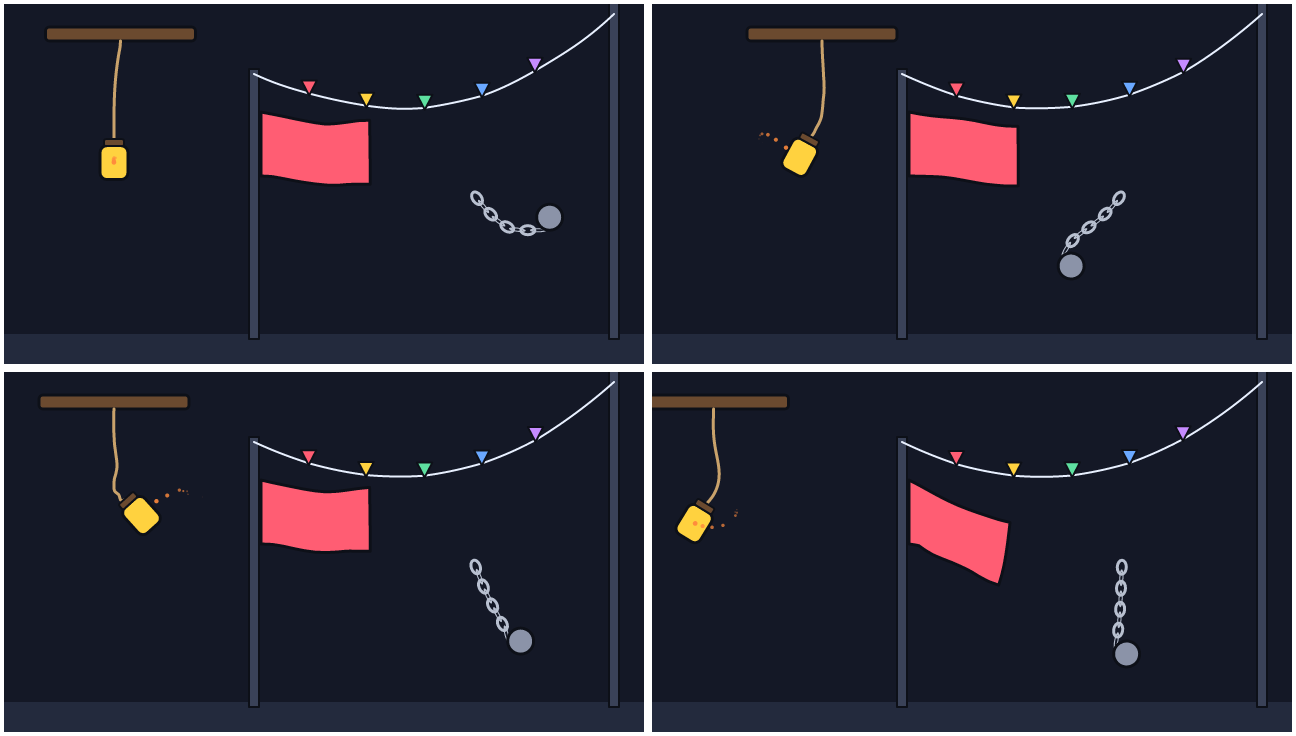
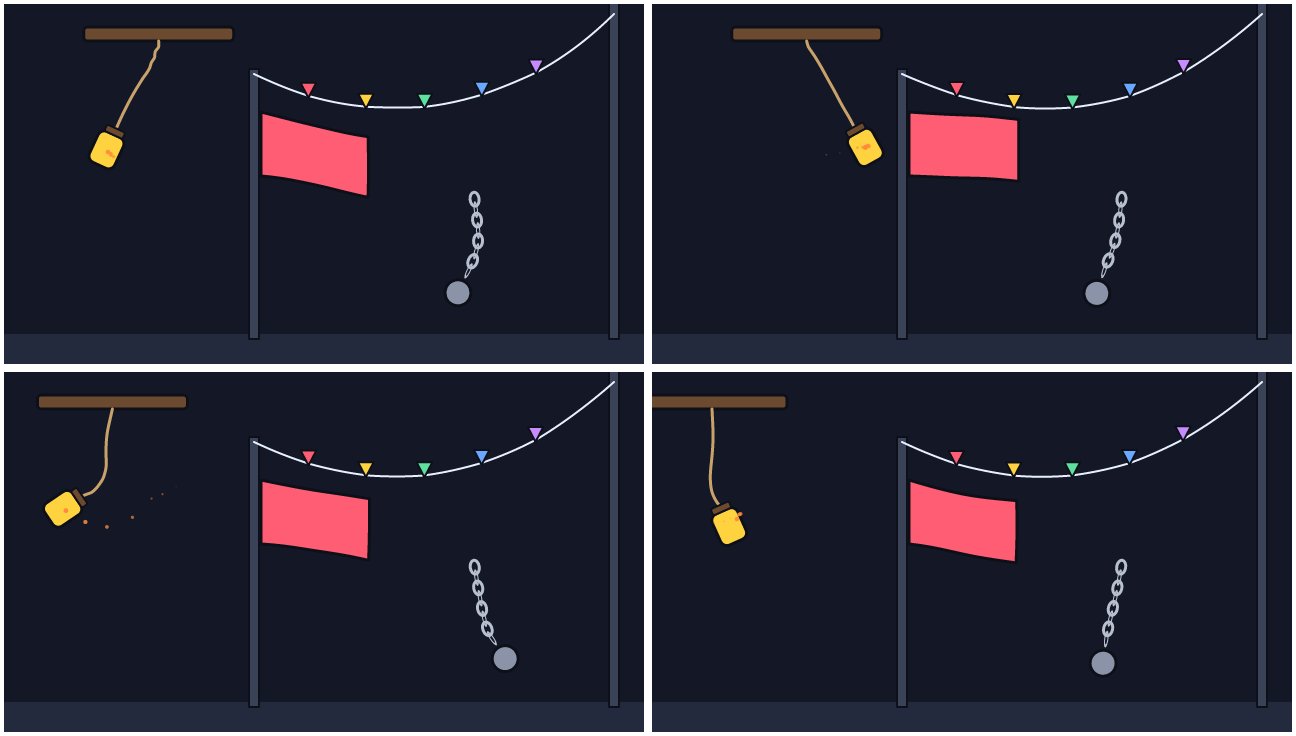
Keep the curve picker on screen, and give cloth clear rules
Timeline: the curve picker sat at the end of the bar and slid under the right
panel in windows narrower than about 1400 px, so it could not be reached. It
is now laid out first at the right end of the bar; the rest is cut at it, and
in a narrow window the timecode and the label get shorter. With no key picked
the list says «нет ключа». A right click on a key opens its curve list.

Cloth: cells may be squeezed (a fold in depth) down to a third of their area
but never turned inside out, which showed as a notch in the outline; kinks in
the rows and columns are smoothed into waves; and wind makes cloth flutter:
waves across the wind run from the fastened part to the free edge and grow on
the way, for its own wind, the scene's wind and fans alike.

Claude-Session: https://claude.ai/code/session_015CiM6UP6Ux3dKLyr33EPnd

diff --git a/docs/animation.html b/docs/animation.html
@@ -31,9 +31,9 @@
   <li><b>«Калька»</b> — показывает соседние позы, см. ниже.</li>
   <li><b>Время и кадр</b> — текущее положение. <kbd>,</kbd> и <kbd>.</kbd> шагают на кадр назад и вперёд.</li>
   <li><b>«Длит.»</b> — длительность анимации в секундах.</li>
-  <li><b>«Кривая»</b> — кривая выбранного ключа и её миниатюра.</li>
+  <li><b>«Кривая»</b> — кривая выбранного ключа и её миниатюра. Всегда стоит у правого края панели, в узком окне время показывается короче, чтобы она поместилась. Пока ключ не выбран, в списке написано «нет ключа».</li>
 </ul>
-<p>Ниже идут дорожки: строка объекта со сводкой его ключей и под ней строки анимированных свойств. Клик по линейке или дорожке переводит время. Ключ можно выбрать кликом, перетащить на другое время или удалить клавишей <kbd>Delete</kbd>.</p>
+<p>Ниже идут дорожки: строка объекта со сводкой его ключей и под ней строки анимированных свойств. Клик по линейке или дорожке переводит время. Ключ можно выбрать кликом, перетащить на другое время или удалить клавишей <kbd>Delete</kbd>. Правый клик по ключу сразу открывает список кривых.</p>
 
 <h2 id="curves">Кривые</h2>
 <p>Кривая задаёт, как значение идёт от одного ключа к следующему: равномерно, с разгоном, с торможением, с перелётом или прыжками. Она хранится на ключе, с которого начинается отрезок.</p>

diff --git a/docs/physics.html b/docs/physics.html
@@ -102,6 +102,8 @@
 <ul>
   <li><b>Провис.</b> Верёвка с двумя закреплёнными концами держит свою нарисованную длину. Нарисуйте её с провисом (кривой), и она будет висеть свободно. Прямая верёвка между двумя точками натянута.</li>
   <li><b>Фонарь.</b> Шнур внутри группы с балкой, фонарь — группа с <code>pivot</code> на крышке и <code>hang cord</code>. Двигайте балку ключами, фонарь раскачается сам.</li>
+  <li><b>Правила ткани.</b> Ткань не растягивается (сколько именно — решает жёсткость), но сжимается: так в плоскости выглядит складка в глубину. Сжаться клетка сетки может до трети своей площади, но не вывернуться наизнанку, поэтому на краю не бывает зазубрин. Резкие изломы сглаживаются, складки получаются плавными волнами.</li>
+  <li><b>Ткань на ветру</b> не просто сдувается: по ней бегут волны поперёк ветра от закреплённого края к свободному и растут к концу. Чем сильнее ветер (свой, сцены, вентилятор) и чем больше парусность, тем сильнее полощется.</li>
   <li><b>В Design</b> верёвки и ткань нарисованы как есть, подвешенные объекты и звенья стоят на нарисованной верёвке. Физика работает в Animate, при проигрывании и экспорте.</li>
 </ul>
 

diff --git a/crates/motif-core/src/rope.rs b/crates/motif-core/src/rope.rs
@@ -102,6 +102,15 @@ const CLOTH_MAX: usize = 28;
 const ITERATIONS: usize = 6;
 /// How much of a sliding point's speed a wall takes per step.
 const FRICTION: f64 = 0.3;
+/// The smallest a cloth's cell may be squeezed, as a share of its drawn area: below it the
+/// cell would turn inside out, which shows as a notch in the outline.
+const CLOTH_MIN_AREA: f64 = 0.3;
+/// How strongly each pass straightens kinks in the cloth's rows and columns, 0..1.
+const CLOTH_BEND: f64 = 0.03;
+/// Flutter of cloth in the wind: sideways push as a share of the wind, and the length of the
+/// waves that run from the fastened edge to the free one, in artboard units.
+const FLUTTER: f64 = 1.0;
+const FLUTTER_WAVE: f64 = 60.0;
 
 /// What holds a point in place.
 #[derive(Clone, Debug, PartialEq)]
@@ -147,6 +156,11 @@ pub(crate) struct Strand {
     time: f64,
     /// Where each point is in the wind's waves, from its place on the drawn shape.
     phase: Vec<f64>,
+    /// Cloth: how far each point is from the fastened part as drawn, as a share of the
+    /// farthest one (1 everywhere when nothing is fastened).
+    reach: Vec<f64>,
+    /// Cloth: each cell as two triangles of point indices, with the drawn signed area of each.
+    cells: Vec<([usize; 3], f64)>,
 }
 
 /// The first piece of `path`'s outline as a polyline with points at most `step` apart, and
@@ -396,8 +410,28 @@ impl Strand {
             }
         }
         let margin = if n.stroke.is_some() && !rope.cloth { n.stroke_width / 2.0 } else { 0.0 };
-        let phase = rest.iter().map(|q| (q.x + q.y * 0.5) * 0.06).collect();
-        Some(Strand { node, rope, old: p.clone(), p, inv, anchors, sticks, form, margin, time: 0.0, phase })
+        let mut phase: Vec<f64> = rest.iter().map(|q| (q.x + q.y * 0.5) * 0.06).collect();
+        let (mut reach, mut cells) = (vec![1.0; rest.len()], Vec::new());
+        if let Form::Grid { cols, rows, .. } = form {
+            // Waves start at the fastened part and run away from it.
+            let held: Vec<Point> = (0..rest.len()).filter(|&k| inv[k] <= 0.0).map(|k| rest[k]).collect();
+            if !held.is_empty() {
+                let dist: Vec<f64> = rest.iter().map(|q| held.iter().map(|h| (*q - *h).hypot()).fold(f64::MAX, f64::min)).collect();
+                let far = dist.iter().copied().fold(1e-9, f64::max);
+                reach = dist.iter().map(|d| d / far).collect();
+                phase = dist.iter().map(|d| d / FLUTTER_WAVE * std::f64::consts::TAU).collect();
+            }
+            let area = |t: [usize; 3]| (rest[t[1]] - rest[t[0]]).cross(rest[t[2]] - rest[t[0]]) / 2.0;
+            for r in 0..rows - 1 {
+                for c in 0..cols - 1 {
+                    let (a, b, d, e) = (r * cols + c, r * cols + c + 1, (r + 1) * cols + c, (r + 1) * cols + c + 1);
+                    for t in [[a, b, e], [a, e, d], [a, b, d], [b, e, d]] {
+                        cells.push((t, area(t)));
+                    }
+                }
+            }
+        }
+        Some(Strand { node, rope, old: p.clone(), p, inv, anchors, sticks, form, margin, time: 0.0, phase, reach, cells })
     }
 
     fn step(&mut self, pose: &Document, walls: &[Wall], dt: f64, steps: usize) {
@@ -428,7 +462,16 @@ impl Strand {
                 }
                 None => {
                     let ph = self.phase[i];
-                    let acc = Vec2::new(gust * (1.0 + 0.5 * (t * 5.0 - ph).sin()), gust * (t * 4.0 - ph * 1.3).sin()) + pull + pose.push(me, self.p[i]);
+                    let acc = if r.cloth {
+                        // The wind blows the cloth out and makes it flutter: waves across the wind
+                        // run from the fastened edge to the free one and grow on the way.
+                        let wind = Vec2::new(gust, 0.0) + pose.push(me, self.p[i]);
+                        let across = Vec2::new(-wind.y, wind.x);
+                        let reach = self.reach[i];
+                        wind * (1.0 + 0.3 * (t * 7.0 - ph).sin()) + across * (FLUTTER * reach * (t * 9.0 - ph).sin()) + pull
+                    } else {
+                        Vec2::new(gust * (1.0 + 0.5 * (t * 5.0 - ph).sin()), gust * (t * 4.0 - ph * 1.3).sin()) + pull + pose.push(me, self.p[i])
+                    };
                     let v = (self.p[i] - self.old[i]) * keep;
                     self.old[i] = self.p[i];
                     self.p[i] += v + acc * dt * dt;
@@ -456,6 +499,9 @@ impl Strand {
                 self.p[b] -= fix * wb;
             }
         }
+        if let Form::Grid { cols, rows, .. } = self.form {
+            self.keep_cloth_smooth(cols, rows);
+        }
         for wall in walls {
             let margin = wall.margin + self.margin;
             for i in 0..self.p.len() {
@@ -473,6 +519,58 @@ impl Strand {
                 self.p[i] = on + out * margin;
                 let v = self.p[i] - self.old[i];
                 self.old[i] = self.p[i] - along * v.dot(along) * (1.0 - FRICTION);
+            }
+        }
+    }
+
+    /// Cloth: straightens kinks in the rows and columns, then keeps every cell from being
+    /// squeezed flat or turned inside out. Folds stay smooth waves instead of notches.
+    fn keep_cloth_smooth(&mut self, cols: usize, rows: usize) {
+        let n = self.p.len();
+        let mut fix = vec![Vec2::ZERO; n];
+        let mut bend = |a: usize, b: usize, c: usize, p: &[Point], inv: &[f64]| {
+            let w = inv[a] * 0.25 + inv[b] + inv[c] * 0.25;
+            if w <= 0.0 {
+                return;
+            }
+            let d = (p[a].midpoint(p[c]) - p[b]) * (CLOTH_BEND / w);
+            fix[b] += d * inv[b];
+            fix[a] -= d * (inv[a] * 0.5);
+            fix[c] -= d * (inv[c] * 0.5);
+        };
+        for r in 0..rows {
+            for c in 1..cols - 1 {
+                let k = r * cols + c;
+                bend(k - 1, k, k + 1, &self.p, &self.inv);
+            }
+        }
+        for r in 1..rows - 1 {
+            for c in 0..cols {
+                let k = r * cols + c;
+                bend(k - cols, k, k + cols, &self.p, &self.inv);
+            }
+        }
+        for (q, f) in self.p.iter_mut().zip(&fix) {
+            *q += *f;
+        }
+        for _ in 0..2 {
+            for &(t, rest) in &self.cells {
+                let [a, b, c] = t.map(|k| self.p[k]);
+                let sign = rest.signum();
+                let area = (b - a).cross(c - a) / 2.0 * sign;
+                let want = rest.abs() * CLOTH_MIN_AREA;
+                if area >= want {
+                    continue;
+                }
+                let g = [(b - c) / 2.0, (c - a) / 2.0, (a - b) / 2.0].map(|v| Vec2::new(v.y, -v.x) * sign);
+                let norm: f64 = (0..3).map(|i| self.inv[t[i]] * g[i].hypot2()).sum();
+                if norm < 1e-12 {
+                    continue;
+                }
+                let lambda = (want - area) / norm;
+                for i in 0..3 {
+                    self.p[t[i]] += g[i] * (self.inv[t[i]] * lambda);
+                }
             }
         }
     }
@@ -728,5 +826,32 @@ mod tests {
         // Down the hanging rope, one after another.
         let ys: Vec<f64> = parts.iter().map(|(a, _)| (*a * Point::ZERO).y).collect();
         assert!(ys.windows(2).all(|w| w[1] > w[0]), "{ys:?}");
+    }
+
+    #[test]
+    fn a_cloth_in_a_storm_flutters_without_turning_inside_out() {
+        let mut d = Document::new(Artboard::default());
+        let mut c = Node::new("flag", ShapeKind::Rect);
+        (c.x, c.y, c.width, c.height) = (200.0, 100.0, 100.0, 60.0);
+        c.rope = Some(Rope { pins: vec![Pin::Left], wind: 2500.0, ..Rope::cloth() });
+        c.weight = Some(0.35);
+        d.nodes.push(c);
+        let mut s = super::strands(&d);
+        let (mut lowest, mut highest) = (f64::MAX, f64::MIN);
+        for frame in 0..240 {
+            d.world.time = frame as f64 / 60.0;
+            super::step_strands(&mut s, &d, 1.0 / 60.0, 10);
+            for &(t, rest) in &s[0].cells {
+                let [a, b, c] = t.map(|k| s[0].p[k]);
+                let area = (b - a).cross(c - a) / 2.0 * rest.signum();
+                assert!(area > rest.abs() * 0.2, "a cell turned inside out at frame {frame}: {area} of {rest}");
+            }
+            // The free corner rises and falls as waves run along the flag.
+            if frame > 60 {
+                let tip = s[0].p[s[0].p.len() - 1].y;
+                (lowest, highest) = (lowest.min(tip), highest.max(tip));
+            }
+        }
+        assert!(highest - lowest > 8.0, "flutters: {lowest}..{highest}");
     }
 }

diff --git a/crates/motif-editor/src/timeline.rs b/crates/motif-editor/src/timeline.rs
@@ -171,6 +171,15 @@ impl App {
             }
         }
         let Some(anim) = anim else { return };
+        // The curve picker goes first, at the right end; the rest fills what is left and is cut
+        // off at it when the window is narrow.
+        let rest = ui.available_rect_before_wrap();
+        let mut right = ui.new_child(UiBuilder::new().max_rect(rest).layout(Layout::right_to_left(Align::Center)));
+        right.spacing_mut().item_spacing.x = 8.0;
+        let narrow = rest.width() < 820.0;
+        self.curve_picker(&mut right, anim, narrow);
+        let left_end = right.min_rect().left() - 8.0;
+        ui.set_clip_rect(ui.clip_rect().intersect(Rect::from_x_y_ranges(rest.left()..=left_end, rest.y_range())));
         vsep(ui);
 
         if theme::icon_button(ui, Icon::First, "В начало").clicked() {
@@ -203,11 +212,17 @@ impl App {
         let mut job = LayoutJob::default();
         let font = theme::mono(12.0);
         let part = |job: &mut LayoutJob, s: &str, c: Color32| job.append(s, 0.0, TextFormat { font_id: font.clone(), color: c, ..Default::default() });
+        // In a narrow window only the time, so that the duration still fits.
+        let wide = left_end - ui.cursor().left() > 310.0;
         part(&mut job, &format!("{t:.2}"), FG);
-        part(&mut job, &format!(" / {:.2} с · кадр ", anim.duration), MUTED);
-        part(&mut job, &format!("{}", (t * FPS).round() as i64), FG);
+        if wide {
+            part(&mut job, &format!(" / {:.2} с · кадр ", anim.duration), MUTED);
+            part(&mut job, &format!("{}", (t * FPS).round() as i64), FG);
+        } else {
+            part(&mut job, " с", MUTED);
+        }
         let galley = ui.painter().layout_job(job);
-        let (r, _) = ui.allocate_exact_size(vec2(galley.size().x.max(150.0), 20.0), Sense::hover());
+        let (r, _) = ui.allocate_exact_size(vec2(galley.size().x.max(if wide { 150.0 } else { 0.0 }), 20.0), Sense::hover());
         ui.painter().galley(pos2(r.left(), r.center().y - galley.size().y / 2.0), galley, FG);
         vsep(ui);
 
@@ -221,26 +236,16 @@ impl App {
             let out = set_anim_duration(&self.src, &self.scene, &anim.name, (d * 100.0).round() / 100.0);
             self.apply("anim-duration", out);
         }
+    }
 
-        // Curve of the selected key.
-        ui.label(egui::RichText::new("Кривая").size(12.0).color(MUTED));
+    /// The curve of the selected key: a list of curves and a preview that opens the curve
+    /// editor. Laid out right to left at the end of the bar, so it never slides off a narrow window.
+    fn curve_picker(&mut self, ui: &mut Ui, anim: &Animation, narrow: bool) {
         let sel = self.sel_key.clone().filter(|_| self.anim.as_deref() == Some(anim.name.as_str()));
         let cur = sel.as_ref().and_then(|k| key_of(anim, k)).map(|k| k.ease);
         ui.add_enabled_ui(cur.is_some(), |ui| {
             let mut pick = None;
-            egui::ComboBox::from_id_salt("ease")
-                .width(108.0)
-                .selected_text(ease_label(cur.unwrap_or(Ease::EaseInOut)))
-                .show_ui(ui, |ui| {
-                    for e in Ease::BASIC {
-                        if ui.selectable_label(cur == Some(e), ease_label(e)).clicked() {
-                            pick = Some(e);
-                        }
-                    }
-                })
-                .response
-                .on_disabled_hover_text("Выберите ключ на таймлайне");
-            let resp = ease_preview(ui, cur).on_hover_text("Редактор кривой: тяните ручки");
+            let resp = ease_preview(ui, cur).on_hover_text("Редактор кривой: тяните ручки").on_disabled_hover_text("Выберите ключ на таймлайне");
             egui::Popup::from_toggle_button_response(&resp).close_behavior(egui::PopupCloseBehavior::CloseOnClickOutside).show(|ui| {
                 ui.horizontal_top(|ui| {
                     ui.vertical(|ui| {
@@ -256,15 +261,37 @@ impl App {
                     });
                 });
             });
+            egui::ComboBox::from_id_salt("ease")
+                .width(108.0)
+                .selected_text(match cur {
+                    Some(e) => ease_label(e),
+                    None => "нет ключа".into(),
+                })
+                .show_ui(ui, |ui| {
+                    for e in Ease::BASIC {
+                        if ui.selectable_label(cur == Some(e), ease_label(e)).clicked() {
+                            pick = Some(e);
+                        }
+                    }
+                })
+                .response
+                .on_disabled_hover_text("Выберите ключ на таймлайне: щелчок по ромбику. Правый щелчок по ромбику тоже меняет кривую");
+            if !narrow {
+                ui.label(egui::RichText::new("Кривая").size(12.0).color(MUTED));
+            }
             if let (Some(e), Some(k)) = (pick, &sel)
                 && Some(e) != cur
             {
-                let out = set_key_ease(&self.src, &self.scene, &anim.name, &k.node, k.prop, k.time, &e.script());
-                if self.apply("ease", out) {
-                    self.status = format!("Кривая ключа {}.{} на {} с: {}", k.node, k.prop.path_name(), fmt_num(k.time), e.script());
-                }
+                self.set_ease(anim, k, e);
             }
         });
+    }
+
+    fn set_ease(&mut self, anim: &Animation, k: &KeyRef, e: Ease) {
+        let out = set_key_ease(&self.src, &self.scene, &anim.name, &k.node, k.prop, k.time, &e.script());
+        if self.apply("ease", out) {
+            self.status = format!("Кривая ключа {}.{} на {} с: {}", k.node, k.prop.path_name(), fmt_num(k.time), e.script());
+        }
     }
 
     fn timeline_body(&mut self, ui: &mut Ui, body: Rect, anim: &Animation) {
@@ -461,7 +488,28 @@ impl App {
                         ACCENT
                     };
                     theme::diamond(&p, c, 6.0, fill, Stroke::new(1.5, if selected { FG } else { ACCENT }));
-                    let kresp = kresp.on_hover_text(format!("{} · {:.2} с · {}", prop_label(*prop), k.time, ease_label(k.ease)));
+                    let kresp = kresp.on_hover_text(format!("{} · {:.2} с · {} · правый щелчок — кривая", prop_label(*prop), k.time, ease_label(k.ease)));
+                    // Right click: pick the curve straight from the key.
+                    let mut pick = None;
+                    kresp.context_menu(|ui| {
+                        ui.label(egui::RichText::new("Кривая ключа").size(12.0).color(MUTED));
+                        for e in Ease::BASIC {
+                            if ui.selectable_label(k.ease == e, ease_label(e)).clicked() {
+                                pick = Some(e);
+                                ui.close();
+                            }
+                        }
+                    });
+                    if kresp.secondary_clicked() {
+                        self.ensure_anim(&anim.name);
+                        self.sel_key = Some(me.clone());
+                        self.selected = Some(id.clone());
+                    }
+                    if let Some(e) = pick
+                        && e != k.ease
+                    {
+                        self.set_ease(anim, &me, e);
+                    }
                     if kresp.clicked() || kresp.drag_started() {
                         self.ensure_anim(&anim.name);
                         self.sel_key = Some(me.clone());
@@ -517,7 +565,7 @@ impl App {
         };
         let mut pick: Option<(String, Option<usize>)> = None;
         let resp = egui::ComboBox::from_id_salt("anim-pick")
-            .width(170.0)
+            .width(140.0)
             .height(420.0)
             .selected_text(egui::RichText::new(text).color(if self.anim.is_some() { FG } else { MUTED }))
             .show_ui(ui, |ui| {

diff --git a/README.md b/README.md
@@ -60,7 +60,7 @@ cargo run --release -p motif-editor -- examples/bounce.msc
   снимает ключ, K ставит ключи позиции, поворота и масштаба сразу.
 * **Таймлайн.** Выпадающий список анимаций (сверху — состояния машины) и «+» для новой, пуск, «Повтор», длительность. Ниже дорожки: у каждого объекта сводка
   ключей и строки анимированных свойств. Клик по линейке или дорожке переводит время, ключ можно выбрать и сменить ему
-  «Кривую», перетащить на другое время или удалить клавишей Delete. «,» и «.» — кадр назад и вперёд. Клик по миниатюре
+  «Кривую» (или правым кликом по ключу), перетащить на другое время или удалить клавишей Delete. «,» и «.» — кадр назад и вперёд. Клик по миниатюре
   кривой открывает редактор кривой: две ручки Безье тянутся мышью, выше рамки — перелёт (`cubic 0.3 0 0.6 1.2`).
   «Калька» (onion skin) показывает на паузе соседние позы: красные — раньше, зелёные — позже, через 6 кадров.
   В редакторе кривой справа — библиотека: базовые кривые, все 30 функций с easings.net (sine, quad, cubic, quart, quint, expo,
@@ -111,7 +111,8 @@ cargo run --release -p motif-editor -- examples/bounce.msc
   частицы, поэтому кадры повторяются и запекаются в экспорт. Пример — [`examples/particles.msc`](examples/particles.msc).
 * **Верёвки, цепи и ткань.** `rope 1 0.02 pin start end wind 200` делает контур верёвкой: она провисает, качается,
   ложится на препятствия, `tie` привязывает конец к объекту. `hang cord 0.5` вешает объект на верёвку (фонарь, флажки),
-  `links chain` рисует фигуру звеньями цепи вдоль неё. `cloth pin left` делает из фигуры ткань: флаг, занавеска, плащ.
+  `links chain` рисует фигуру звеньями цепи вдоль неё. `cloth pin left` делает из фигуры ткань: флаг, занавеска, плащ. Ткань не растягивается, сжимается плавными складками
+  без выворота клеток, а на ветру полощется волнами от закреплённого края.
   Пример — [`examples/ropes.msc`](examples/ropes.msc).
 * **Жидкости.** `fluid 0.1` заполняет фигуру водой: капли держат плотность, плещутся и упираются в препятствия, а рисуются
   одним гладким векторным контуром с заливкой и обводкой фигуры. `flow 60` превращает фигуру в кран, вязкость
